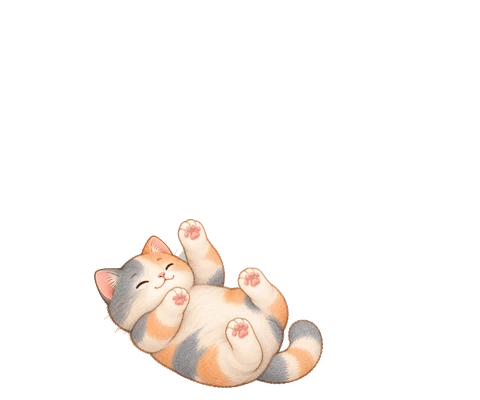
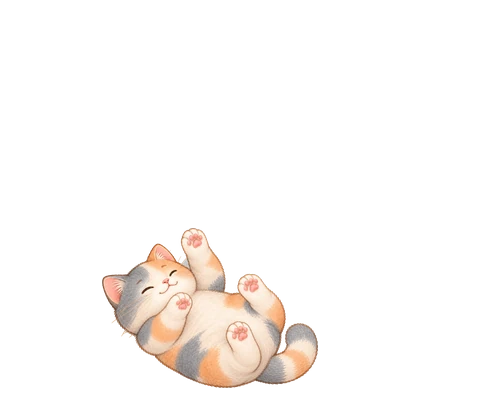
Replace belly1 art for 13 cats; drop Sheleg's tail swish
The belly1 poses were made consistent across the roster (sheleg, dvash, barzel,
kesef, kokhav, lilach, zohar, tchelet, zayit, rimon, kinamon, silan, kafe).
Sheleg's new belly1 is a whole-body image, so her tail overlay and CAT_TAILS
entry are removed; tail swish is tapuz-only. Other cats' belly1 moved ~1px as
the roster median shifted.

Claude-Session: https://claude.ai/code/session_014WxqEhfKkNCDJEmdi1my6a

Changed region(s): [[0.1875, 0.54, 0.6875, 0.96]]

diff --git a/index.html b/index.html
@@ -968,7 +968,6 @@
   // to paste here). Add a '<cat>-<pose>' entry as each cat's tail is extracted.
   const CAT_TAILS = {
     'tapuz-belly1': { origin: '61.1% 87.8%' },
-    'sheleg-belly1': { origin: '59.0% 90.9%' },
   };
   // Cats with a second pair of paws split from their pose art (see raw/cats/<cat>-<pose>-paws.png and
   // process_cat_paws in process_art.py, which saves the aligned overlay to cats/<cat>/<pose>-paws.webp),

diff --git a/HANDOFF-RYOKAN.md b/HANDOFF-RYOKAN.md
@@ -65,7 +65,7 @@ I'm continuing work on "Neko Ryokan", a Neko Atsume-style cat game, a static sit
 - Offsets (ITEMS[id].offset, ITEMS[id].poseOffset): we went back and forth on this and landed on object-and-pose, not cat-and-pose. A cat offset keyed just by cat name (e.g. the Rimon/Pilpel nudges on a former bath item) still works and is for genuine per-cat size differences; don't add new per-cat offsets for a bath position unless there's a real reason — put the position on the bath's poseOffset so it applies to every cat.
 - objects/*-water.webp (one per XL bath) and steam are configured on the item as water: { x, y, w, steamDy }, all percent of the spot. Steam uses the same x/y/w as the water plus an optional downward nudge (steamDy) so it can start nearer the surface without moving the water itself. Steam is pure CSS (radial-gradient blurred circles, mix-blend-mode: screen, no art needed) — screen blend mode was the fix for it being invisible against a light background; plain opacity just washed out.
 - Converting a "move it N px" request to a percent offset: these percentages are relative to the spot box, not the room. The spot is about 340x284 in a typical desktop test window, so roughly px / 2.84 = percent of spot height, px / 3.4 = percent of spot width. This is an approximation tied to whatever window you're testing in — it's not exact on every device, so after a few nudges it's worth confirming on the user's actual screen rather than trusting the running total.
-- Tail swish (CAT_TAILS, process_cat_tail): tried on tapuz, sheleg, dvash, tchelet, zohar, silan, lilach, shoko, namer, zayit. Scoped back down to **tapuz and sheleg only** — the single-rigid-rotation technique (whole tail image rotated around one pivot point) only reads naturally when the tail's visual mass sits close to its pivot; for cats with a more extended tail shape it reads as the entire tail being dragged, not swishing from a base. Not fixable by amplitude tuning, z-order, or alpha blending — only a real two-segment base+tip bend would fix it, which wasn't pursued. Don't re-add swish for the other eight cats without that deeper rework.
+- Tail swish (CAT_TAILS, process_cat_tail): tried on tapuz, sheleg, dvash, tchelet, zohar, silan, lilach, shoko, namer, zayit. Scoped back down to **tapuz and sheleg**, and then sheleg lost hers too when her belly1 art was replaced with a whole-body version (no `-notail`/`-tail` split any more, entry removed from CAT_TAILS), so **tapuz only** now — the single-rigid-rotation technique (whole tail image rotated around one pivot point) only reads naturally when the tail's visual mass sits close to its pivot; for cats with a more extended tail shape it reads as the entire tail being dragged, not swishing from a base. Not fixable by amplitude tuning, z-order, or alpha blending — only a real two-segment base+tip bend would fix it, which wasn't pursued. Don't re-add swish for the other nine cats without that deeper rework.
 - Hug pose (belly2 + held item): a second art-processing pattern alongside tail-splitting, for an item the cat visibly hugs rather than just sits beside. `PAWS_RE` matches `raw/cats/<cat>-<pose>-paws.png`; `process_cat_paws` (reusing `body_placement`/`align_overlay`, the same helpers process_cat_tail uses) aligns it onto the shared canvas as `cats/<cat>/<pose>-paws.webp`. At runtime, `CAT_HUG` in index.html (keyed `<cat>-<pose>`) gives `{left, top, w}` placing the item's own untrimmed canvas so its content lands in the gap between the body's resting paws and this overlay — body, then item, then paws on top (see `catLayer`'s `hug`/`hugImg`/`pawsImg`, and `spotHtml`'s `hugging` flag, which suppresses the item's normal floor rendering when this applies). Currently wired for 17 cats' belly2 pose, all sharing one tuned value (`left: 37.51, top: 42.01, w: 38.64`) except kafe (`36.26, 44.51`) and pilpel (`37.51, 44.51`), nudged individually after visual testing — the shared canvas means one value usually transfers across cats, but check a new cat visually before assuming it will. Only `temaki-ball` uses this so far (`hugged: true`), and its `poses` array deliberately does NOT include `'belly2'` yet, so the hug composition is only reachable by manually testing (see the JS snippet pattern below), not through real visitor assignment — a deliberate scoping choice, not an oversight.
 - To visually test a hug composition without touching game state: since everything in index.html is wrapped in one IIFE, `CAT_HUG`/`catLayer` aren't reachable from the console. Paste a standalone snippet that rebuilds the same body→item→paws stack directly from file paths (`cats/<cat>/<pose>.webp`, `objects/<item>.webp`, `cats/<cat>/<pose>-paws.webp`) into a floating `position:fixed` overlay, one box per cat, each box the same aspect ratio as the real cat-layer (480:400) so a "move it N px" request converts cleanly against the box's own pixel size (e.g. a 240x200 box: px/200*100 for top%, px/240*100 for left%). Appending to `document.body` works from any page load, no game-state interaction needed.
 - `tools/process_art.py` caches by content hash in `tools/.art-cache.json` (gitignored, machine-local — delete it any time to force a clean full rebuild). A raw file whose hash matches last run AND whose expected output(s) still exist on disk is skipped entirely; a no-op rerun takes ~1 second. Invalidation is narrow: (1) the cache is wiped when the hash of the script's *shared code* changes — computed from the parsed AST, so comment/whitespace edits do NOT invalidate; (2) name-keyed config (`PER_ITEM_CONFIG`: OBJECT_SIZE, SHADOW_CUT, OBJECT_SHIFT, FRONT_CURVES, FRONT_WALLS, CLEAR_HOLES, DESHADOW, MAIN_BLOB, ITEM_SOURCE, ITEM_RAW_NAME, FLOATING, CENTER_BBOX[_PREFIXES]) is excluded from that hash and fingerprinted per item instead, so editing one entry (e.g. OBJECT_SIZE['ball']) rebuilds only that item (~4s); item cache entries are keyed by item NAME (`item:<name>`), not raw path, so aliases sharing one raw file are tracked separately; (3) `main()` and the cache/validation helpers (`CACHE_EXEMPT`) are NOT hashed — if you change something in `main()` that affects output pixels, bump `CACHE_VERSION`. Two real cross-file dependencies are handled specially: all items/floating overlays share one `item_scale` from the reference cat's (`tapuz`) `sit` pose (if it changes, every item is reprocessed), and `BODY_MATCH` cats (`lie`, `belly1`) derive scale from the roster median for that pose (a cat whose own art is unchanged is silently recomposed if another cat's edit shifts that median). The contact sheet only shows assets reprocessed in that run. TRAP: never run two invocations concurrently (they'd race on the same output files AND the cache file); a full rebuild takes 10+ minutes — if a run drags on, check memory pressure (`sysctl vm.swapusage`, `vm_stat`) before assuming the script broke.
